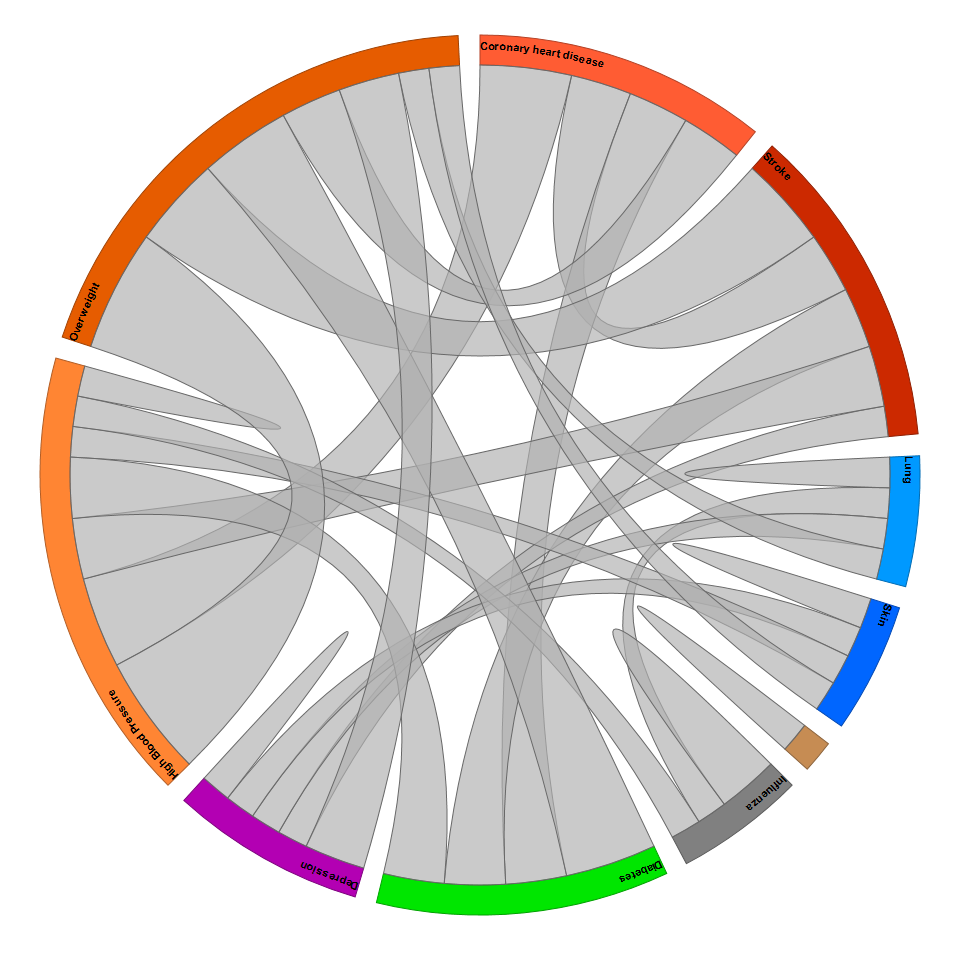
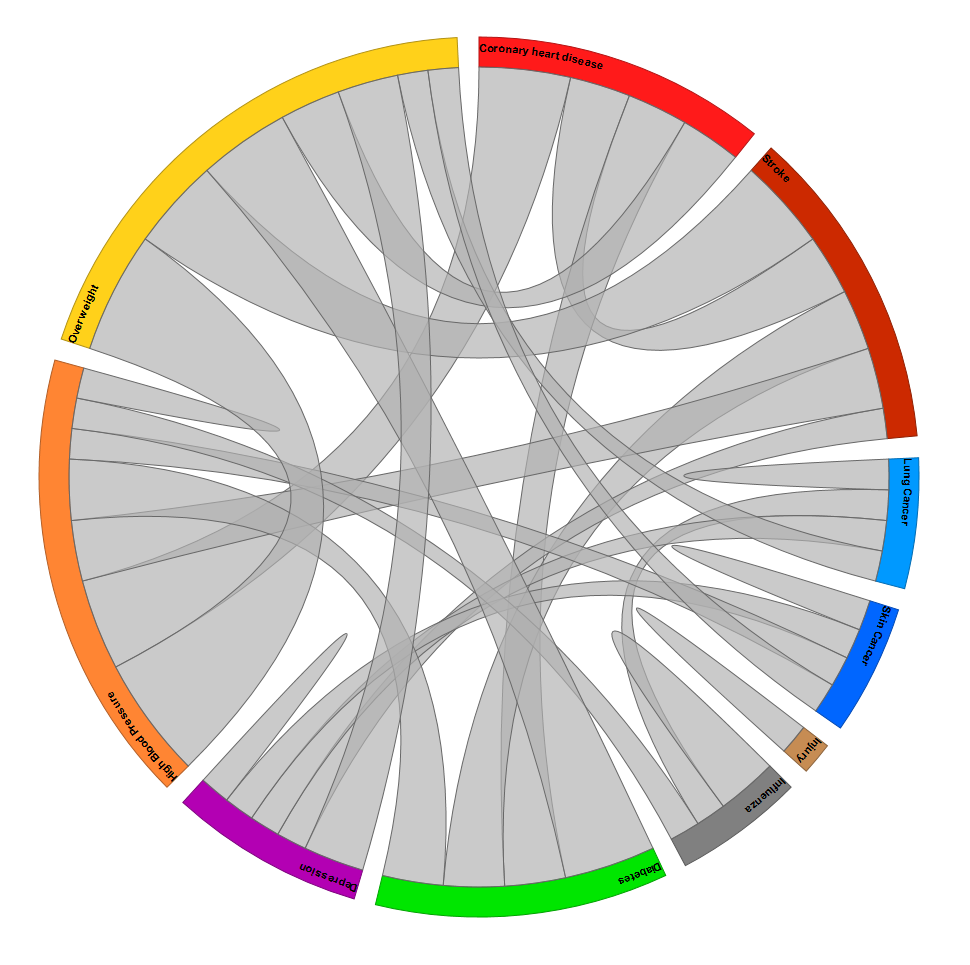
minor text and color changes

diff --git a/mockPatients.html b/mockPatients.html
@@ -15,8 +15,8 @@ body {
 <svg width="960" height="960"></svg>
 <script src="https://d3js.org/d3.v4.min.js"></script>
 <script>
-var diseaseNames = ["Coronary heart disease", "Stroke", "Lung", "Skin", "Concussion", "Influenza", "Diabetes", "Depression", "High Blood Pressure", "Overweight"];
-var colors20 = ["#ff5c33", "#cc2900", "#0099ff", "#0066ff", "#c68c53", "#808080", "#00e600", "#b300b3", "#ff8533", "#e65c00"];
+var diseaseNames = ["Coronary heart disease", "Stroke", "Lung Cancer", "Skin Cancer", "Injury", "Influenza", "Diabetes", "Depression", "High Blood Pressure", "Overweight"];
+var colors20 = ["#ff1a1a", "#cc2900", "#0099ff", "#0066ff", "#c68c53", "#808080", "#00e600", "#b300b3", "#ff8533", "#ffd11a"];
 //var diseaseNames = ["Coronary heart disease", "Peripheral arterial disease", "Stroke", "Lung", "Skin", "Breast", "Prostate", "Concussion", "Torn ACL", "Torn Achilles tendon", "Influenza", "Diabetes", "Hyperthyroidism", "Depression", "Anxiety", "Epilepsy", "Amnesia", "High Cholesterol", "High Blood Pressure", "Overweight"];
 //var colors20 = ["#ff5c33", "#ff3300", "#cc2900", "#0099ff", "#0066ff", "#3366ff", "#3333cc", "#c68c53", "#996633", "#604020", "#808080", "#00e600", "#009900", "#b300b3", "#990099", "#ac39ac", "#732673", "#ffa64d", "#ff8533", "#e65c00"];
 
